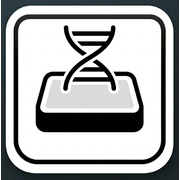
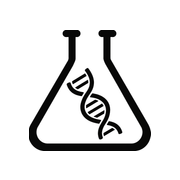
feat: アプリのアイコンを、フラスコと DNA の絵に替える
- ChatGPT で作った絵（scripts/icon-source.png）から、scripts/generate-icons.mjs で各サイズを書き出す
- 元の絵の四隅の黒と、白のむらを直し、背景を全面白にする
- Android の丸い切り抜き用の maskable アイコンを足す
- 使っていない app/plate-lab-favicon.png を消す

Refs #1

diff --git a/app/manifest.ts b/app/manifest.ts
@@ -20,6 +20,12 @@ export default function manifest(): MetadataRoute.Manifest {
         sizes: "512x512",
         type: "image/png",
       },
+      {
+        src: "/icon-maskable-512x512.png",
+        sizes: "512x512",
+        type: "image/png",
+        purpose: "maskable",
+      },
     ],
   };
 }

diff --git a/docs/plans/2026-10-11-app-icon.md b/docs/plans/2026-10-11-app-icon.md
@@ -43,10 +43,10 @@
 
 ## タスク
 
-- [ ] 案を3つ作り、見本を見せて選んでもらう
-- [ ] 選んだ案の SVG と、書き出しのスクリプト
-- [ ] 各サイズの PNG と `app/manifest.ts`
-- [ ] `app/plate-lab-favicon.png` を消す
+- [x] 案を選んでもらう（本人が ChatGPT で作った、フラスコと DNA の絵に決めた）
+- [x] 書き出しのスクリプト（`scripts/generate-icons.mjs`。元の絵は `scripts/icon-source.png`）
+- [x] 各サイズの PNG と `app/manifest.ts`
+- [x] `app/plate-lab-favicon.png` を消す
 
 ## 確認
 
@@ -54,4 +54,7 @@
 
 ## 結果
 
-（まだ）
+- 絵は、本人が ChatGPT で作ったもの（フラスコの中に DNA のらせん、白地に黒）にした。SVG ではなく 1254×1254 の PNG なので、`app/icon.svg` は作っていない
+- 元の絵は角丸の外の四隅が黒く、白も 250〜254 でむらがあった。`scripts/generate-icons.mjs` で、四隅を白く塗り、明るい画素を真っ白にそろえ、絵の範囲を切り出して、大きさごとに余白を付けて書き出す
+- 絵が全体に占める割合: タブ（32px）は 90%、ホーム画面と manifest の `any` は 68%、`maskable` は 54%（丸く切り抜かれても欠けない）
+- 絵を差し替えるときは、`scripts/icon-source.png` を置き換えて `node scripts/generate-icons.mjs` を実行する
